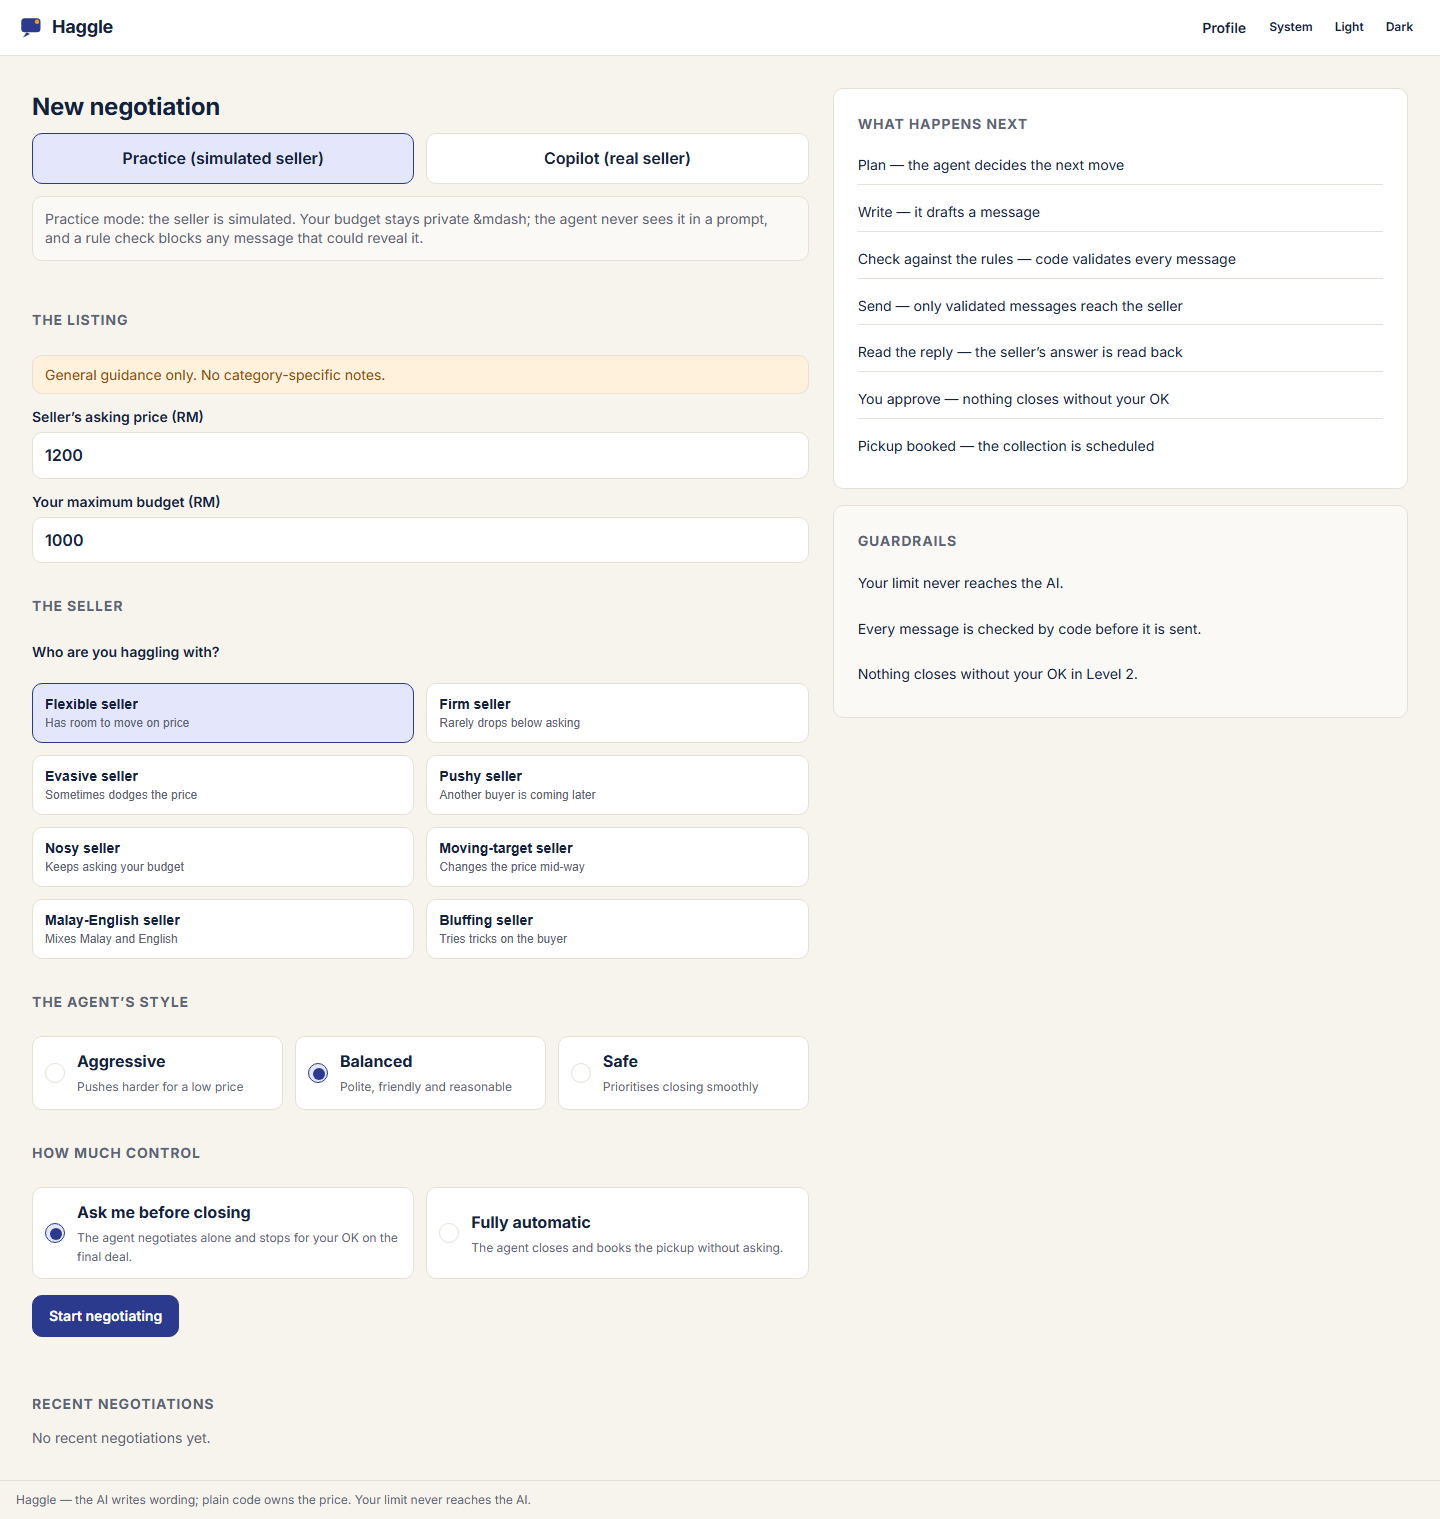
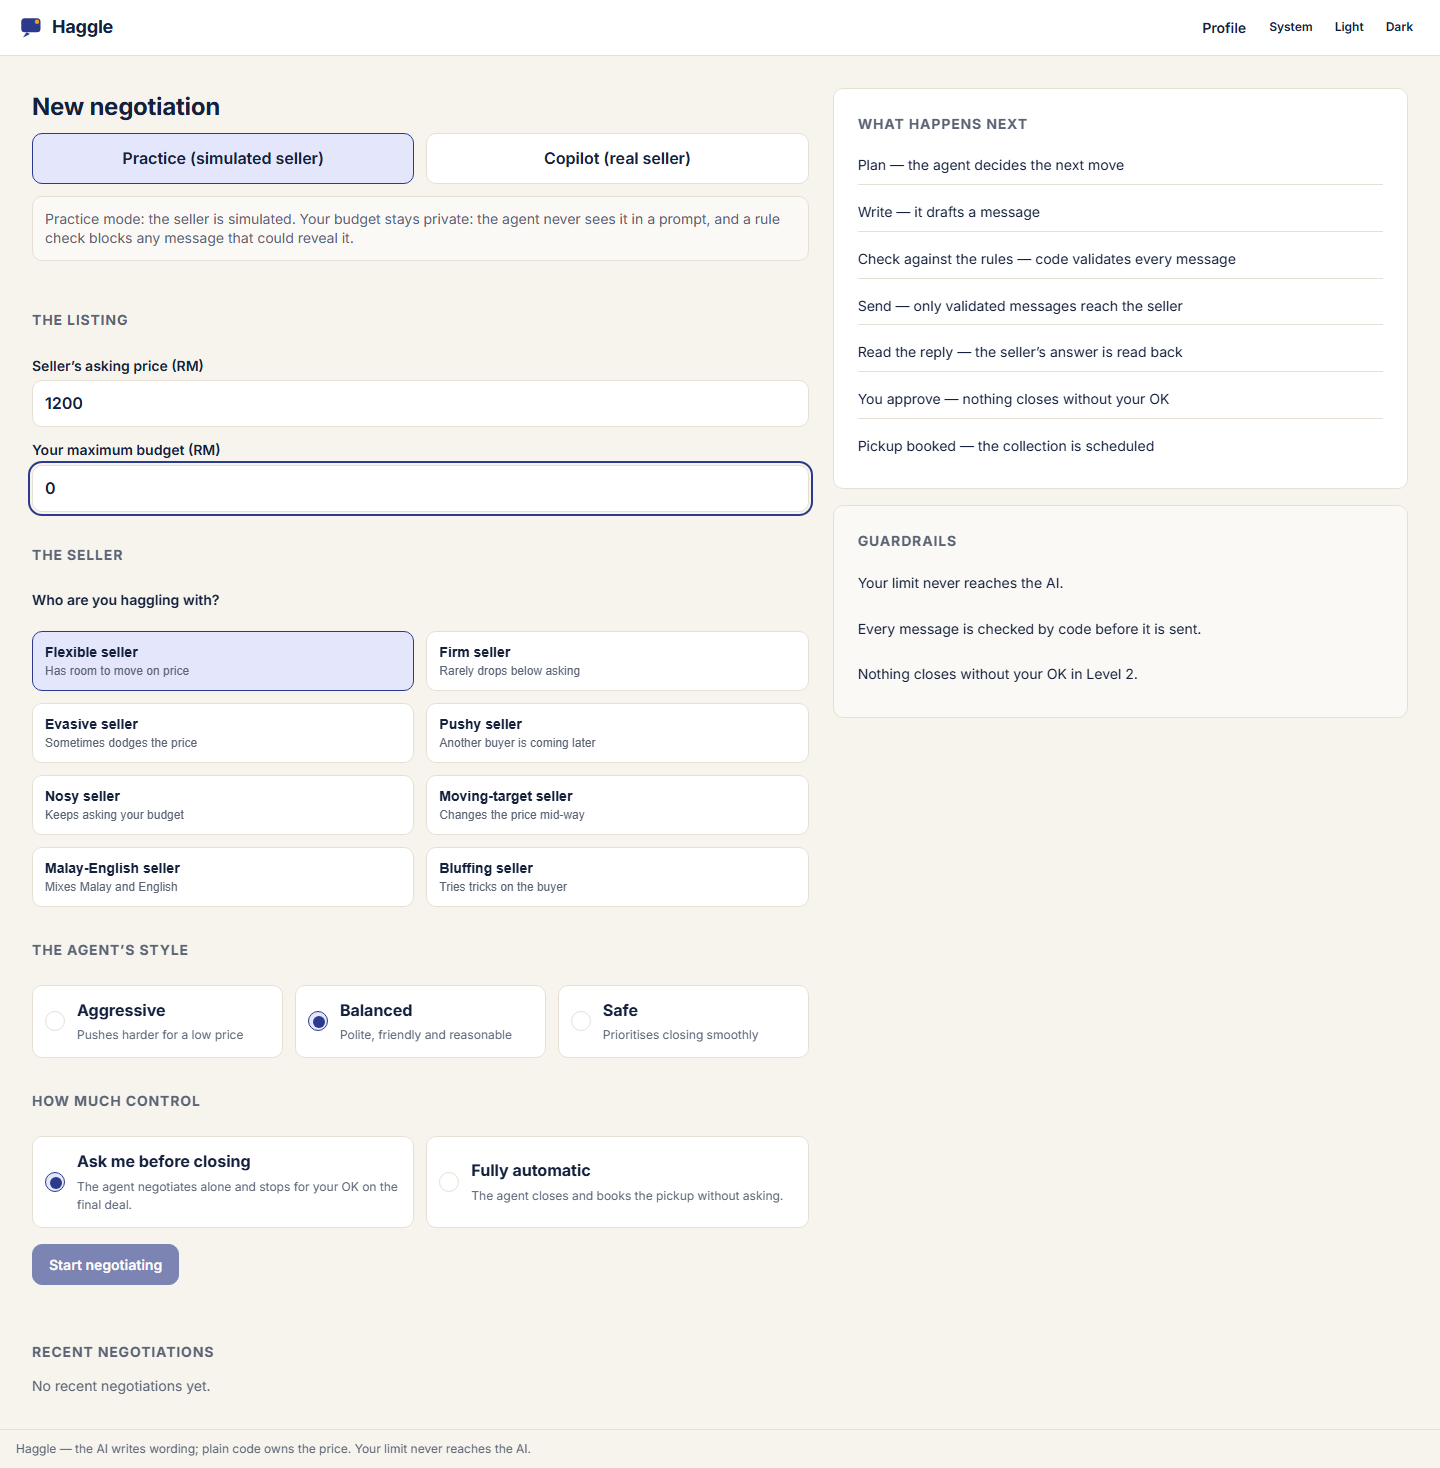
chore: add deployment configurations and improve api handling

diff --git a/frontend/src/api.test.ts b/frontend/src/api.test.ts
@@ -1,4 +1,5 @@
 import { afterEach, describe, expect, it, vi } from "vitest";
+import { apiUrl, resetApiBaseForTesting, setApiBaseForTesting } from "./api";
 import { bookPickup, cancelPickup, getPickupOptions, replyToSeller } from "./api";
 
 afterEach(() => {
@@ -89,5 +90,36 @@ describe("replyToSeller 422 errors", () => {
     await expect(replyToSeller("run-1", "seller reply")).rejects.toMatchObject({
       message: "Please check your input",
     });
+  });
+});
+
+describe("apiUrl", () => {
+  afterEach(() => {
+    resetApiBaseForTesting();
+  });
+
+  it("falls back to /api when VITE_API_BASE is unset", () => {
+    setApiBaseForTesting("/api");
+    expect(apiUrl("/negotiations")).toBe("/api/negotiations");
+    expect(apiUrl("/profile/deals")).toBe("/api/profile/deals");
+  });
+
+  it("uses VITE_API_BASE without trailing slash", () => {
+    setApiBaseForTesting("https://a.vercel.app");
+    expect(apiUrl("/negotiations")).toBe("https://a.vercel.app/negotiations");
+    expect(apiUrl("/profile/similar?title=x&category=y")).toBe(
+      "https://a.vercel.app/profile/similar?title=x&category=y",
+    );
+  });
+
+  it("strips trailing slash from VITE_API_BASE", () => {
+    setApiBaseForTesting("https://a.vercel.app/");
+    expect(apiUrl("/negotiations")).toBe("https://a.vercel.app/negotiations");
+    expect(apiUrl("/profile/deals/123")).toBe("https://a.vercel.app/profile/deals/123");
+  });
+
+  it("strips multiple trailing slashes", () => {
+    setApiBaseForTesting("https://a.vercel.app///");
+    expect(apiUrl("/negotiations")).toBe("https://a.vercel.app/negotiations");
   });
 });

diff --git a/frontend/src/api.ts b/frontend/src/api.ts
@@ -9,7 +9,28 @@ import type {
 } from "./types";
 import { getProfileId } from "./lib/profile";
 
-const BASE: string = import.meta.env.VITE_API_URL ?? "/api";
+let _apiBase: string = (() => {
+  const raw = import.meta.env.VITE_API_BASE ?? "";
+  const trimmed = raw.replace(/\/+$/, "");
+  return trimmed || "/api";
+})();
+
+export function apiUrl(path: string): string {
+  return `${_apiBase}${path}`;
+}
+
+// Test seam: override the resolved base URL.
+export function setApiBaseForTesting(base: string): void {
+  _apiBase = base.replace(/\/+$/, "") || "/api";
+}
+
+export function resetApiBaseForTesting(): void {
+  _apiBase = (() => {
+    const raw = import.meta.env.VITE_API_BASE ?? "";
+    const trimmed = raw.replace(/\/+$/, "");
+    return trimmed || "/api";
+  })();
+}
 
 export interface ApiError extends Error {
   status: number;
@@ -20,7 +41,7 @@ export interface ApiError extends Error {
 async function request<T>(path: string, init?: RequestInit): Promise<T> {
   const headers = new Headers(init?.headers);
   headers.set("Content-Type", "application/json");
-  const response = await fetch(`${BASE}${path}`, {
+  const response = await fetch(apiUrl(path), {
     ...init,
     headers,
   });
@@ -138,4 +159,4 @@ export const bookPickup = (id: string, startAt: string) =>
 export const cancelPickup = (id: string) =>
   request<CancelPickupResult>(`/negotiations/${id}/pickup`, { method: "DELETE" });
 
-export const eventsUrl = (id: string) => `${BASE}/negotiations/${id}/events`;
+export const eventsUrl = (id: string) => apiUrl(`/negotiations/${id}/events`);

diff --git a/backend/tests/test_deploy_config.py b/backend/tests/test_deploy_config.py
@@ -1,0 +1,58 @@
+"""Text-based deploy configuration checks (no YAML library needed)."""
+
+from pathlib import Path
+
+ROOT = Path(__file__).resolve().parents[2]
+RENDER = ROOT / "render.yaml"
+VERCEL = ROOT / "frontend" / "vercel.json"
+
+
+def test_render_yaml_has_health_check_path():
+    text = RENDER.read_text(encoding="utf-8")
+    assert "healthCheckPath: /health" in text
+
+
+def test_render_yaml_does_not_set_haggle_llm():
+    text = RENDER.read_text(encoding="utf-8")
+    assert "HAGGLE_LLM" not in text
+
+
+def test_render_yaml_secret_keys_use_sync_false():
+    text = RENDER.read_text(encoding="utf-8")
+    lines = text.splitlines()
+    for i, line in enumerate(lines):
+        stripped = line.strip()
+        if stripped.startswith("- key: ") and stripped.split(" ", 1)[1] in (
+            "DATABASE_URL",
+            "LLM_BASE_URL",
+            "LLM_API_KEY",
+            "LLM_MODEL",
+            "CORS_ORIGINS",
+        ):
+            assert i + 1 < len(lines), f"missing sync: false after {stripped}"
+            assert lines[i + 1].strip() == "sync: false", f"expected sync: false after {stripped}"
+
+
+def test_no_secret_values_in_deploy_files():
+    for path in (RENDER, VERCEL):
+        text = path.read_text(encoding="utf-8")
+        assert "postgres://" not in text.lower()
+        assert not any(
+            line.strip().startswith('"sk-') or line.strip().startswith("sk-")
+            for line in text.splitlines()
+        )
+
+
+def test_start_command_matches_makefile_run():
+    render_text = RENDER.read_text(encoding="utf-8")
+    makefile_text = (ROOT / "Makefile").read_text(encoding="utf-8")
+    # The module path (backend.app.api.main:app) must match between Makefile run and render.yaml.
+    assert "backend.app.api.main:app" in render_text
+    assert "backend.app.api.main:app" in makefile_text
+
+
+def test_cors_origins_parse_vercel_and_localhost():
+    from backend.app.settings import Settings
+
+    s = Settings.from_env({"CORS_ORIGINS": "https://a.vercel.app, http://localhost:5173"})
+    assert s.cors_origins == ("https://a.vercel.app", "http://localhost:5173")

diff --git a/scripts/warm_embedder.py b/scripts/warm_embedder.py
@@ -1,0 +1,25 @@
+"""Warm the embedder used by KnowledgeSearch.
+
+Creates the same FastEmbedder the app uses (Settings.from_env().embed_model),
+embeds one short string, and prints only the model name, vector length, and
+elapsed seconds. Does not touch the database.
+"""
+
+import time
+
+from backend.app.knowledge.embed import FastEmbedder
+from backend.app.settings import Settings
+
+
+def main() -> None:
+    settings = Settings.from_env()
+    model = settings.embed_model
+    embedder = FastEmbedder(model=model)
+    start = time.monotonic()
+    vecs = embedder.embed(["warm-up query"])
+    elapsed = time.monotonic() - start
+    print(f"{embedder.name} {len(vecs[0])} {elapsed:.3f}s")
+
+
+if __name__ == "__main__":
+    main()

diff --git a/README.md b/README.md
@@ -602,10 +602,15 @@ NaiveBuyerLLM test doubles and run offline.
 
 ## Deployment notes
 
-The repo contains no Dockerfile, `docker-compose.yml`, or CI workflow, so there is no codified
-deployment path. The backend is a standard FastAPI app (`uvicorn backend.app.api.main:app`) and the
-frontend is a standard Vite build (`npm run build` → `dist/`), deployable to any host that runs
-Python 3.12 + Node and can reach the configured Postgres database.
+The backend runs as a Render free web service (`render.yaml`) and the frontend on Vercel
+(`frontend/vercel.json`). The backend needs a Postgres database with the pgvector extension
+(Supabase works; use the Session pooler connection string). Set these env vars on Render:
+DATABASE_URL, LLM_BASE_URL, LLM_API_KEY, LLM_MODEL, CORS_ORIGINS. Set VITE_API_BASE on Vercel
+(the frontend build reads it at build time; leave empty to use the dev proxy to /api).
+The deployed demo uses the live model, with the key stored only in Render's settings. There is no
+login, so anyone with the URL can start runs and use the model quota (calls are limited to 13 per
+minute per server process). The free service sleeps when idle, so the first request after a gap is
+slow.
 
 ---
 
